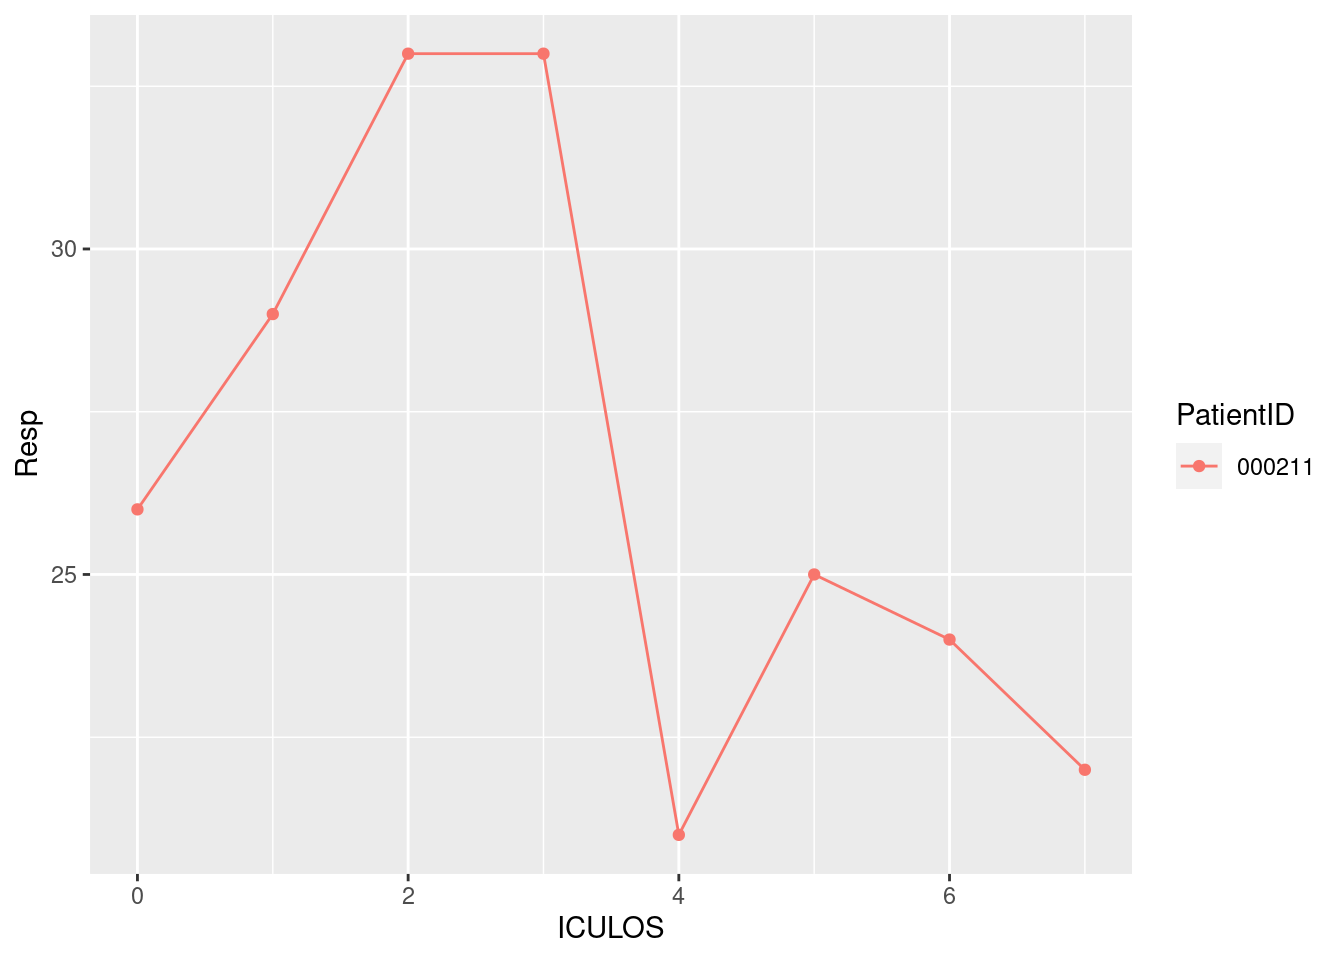
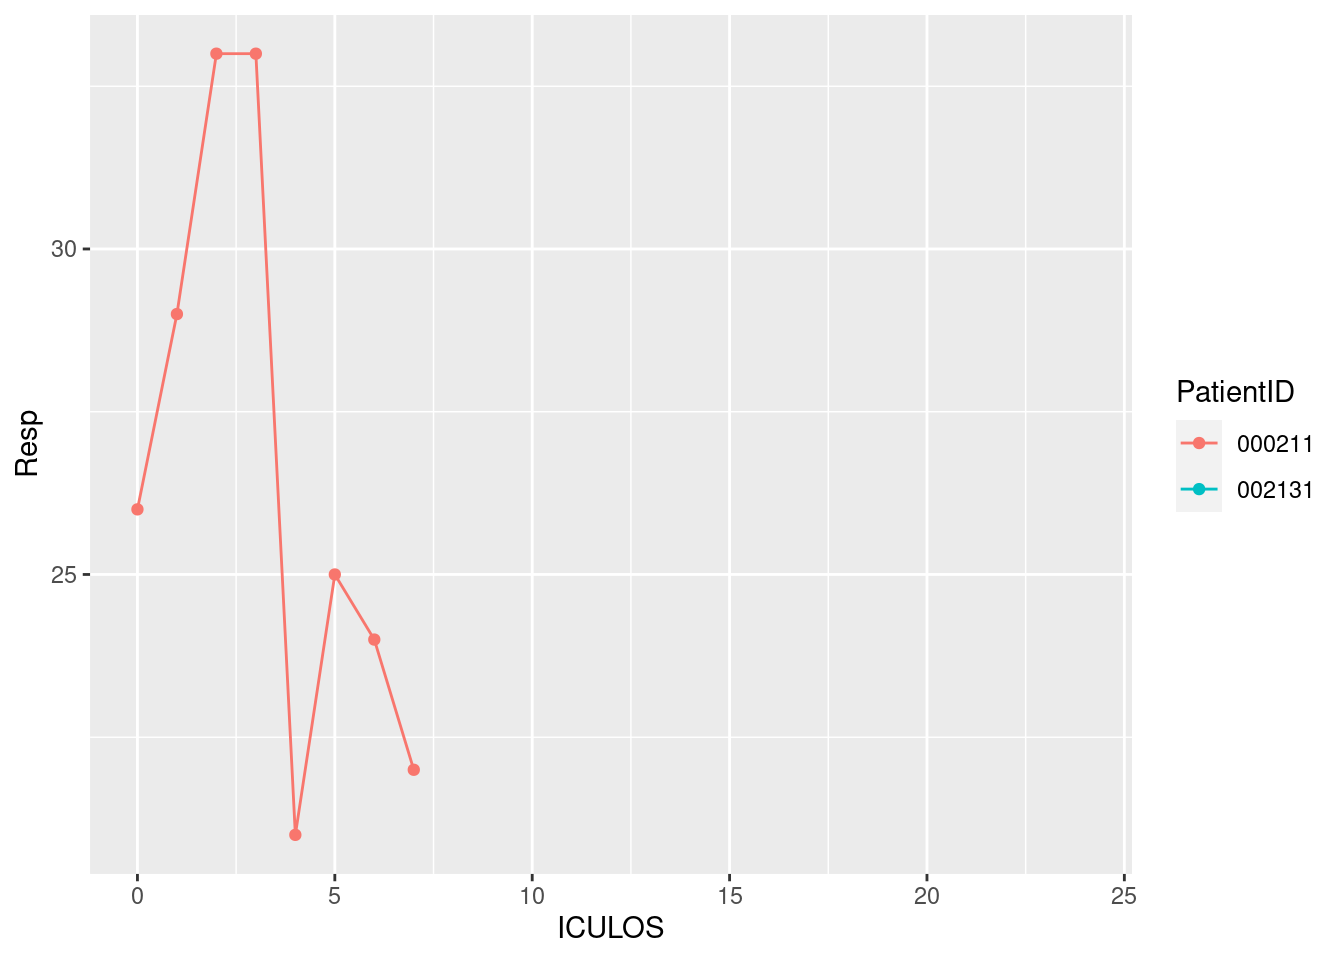
Updated report

diff --git a/a7qmd.html b/a7qmd.html
@@ -80,7 +80,7 @@ ul.task-list li input[type="checkbox"] {
 <h2 class="anchored" data-anchor-id="current-date-and-time">Current date and time</h2>
 <div class="cell">
 <div class="cell-output cell-output-stdout">
-<pre><code>[1] "2023-04-10 17:14:17 UTC"</code></pre>
+<pre><code>[1] "2023-04-10 18:19:10 UTC"</code></pre>
 </div>
 </div>
 </section>
@@ -103,6 +103,12 @@ ul.task-list li input[type="checkbox"] {
 <td style="text-align: right;">88</td>
 <td style="text-align: right;">NA</td>
 <td style="text-align: right;">22</td>
+</tr>
+<tr class="even">
+<td style="text-align: left;">002131</td>
+<td style="text-align: right;">NA</td>
+<td style="text-align: right;">NA</td>
+<td style="text-align: right;">NA</td>
 </tr>
 </tbody>
 </table>
@@ -145,9 +151,9 @@ ul.task-list li input[type="checkbox"] {
 </tr>
 <tr class="even">
 <td style="text-align: left;">000330</td>
-<td style="text-align: right;">14</td>
+<td style="text-align: right;">-8</td>
 <td style="text-align: right;">NA</td>
-<td style="text-align: right;">3</td>
+<td style="text-align: right;">-4</td>
 </tr>
 <tr class="odd">
 <td style="text-align: left;">000332</td>
@@ -175,15 +181,15 @@ ul.task-list li input[type="checkbox"] {
 </tr>
 <tr class="odd">
 <td style="text-align: left;">000878</td>
-<td style="text-align: right;">-5</td>
-<td style="text-align: right;">0.05</td>
-<td style="text-align: right;">0</td>
+<td style="text-align: right;">-1</td>
+<td style="text-align: right;">0.00</td>
+<td style="text-align: right;">-2</td>
 </tr>
 <tr class="even">
 <td style="text-align: left;">000939</td>
-<td style="text-align: right;">-12</td>
+<td style="text-align: right;">25</td>
 <td style="text-align: right;">NA</td>
-<td style="text-align: right;">-3</td>
+<td style="text-align: right;">5</td>
 </tr>
 <tr class="odd">
 <td style="text-align: left;">001080</td>
@@ -205,9 +211,9 @@ ul.task-list li input[type="checkbox"] {
 </tr>
 <tr class="even">
 <td style="text-align: left;">001708</td>
-<td style="text-align: right;">9</td>
+<td style="text-align: right;">0</td>
 <td style="text-align: right;">-0.10</td>
-<td style="text-align: right;">2</td>
+<td style="text-align: right;">-4</td>
 </tr>
 <tr class="odd">
 <td style="text-align: left;">001728</td>
@@ -223,13 +229,13 @@ ul.task-list li input[type="checkbox"] {
 </tr>
 <tr class="odd">
 <td style="text-align: left;">002131</td>
-<td style="text-align: right;">-6</td>
 <td style="text-align: right;">NA</td>
-<td style="text-align: right;">6</td>
+<td style="text-align: right;">NA</td>
+<td style="text-align: right;">NA</td>
 </tr>
 <tr class="even">
 <td style="text-align: left;">002248</td>
-<td style="text-align: right;">-3</td>
+<td style="text-align: right;">1</td>
 <td style="text-align: right;">NA</td>
 <td style="text-align: right;">NA</td>
 </tr>
@@ -247,9 +253,9 @@ ul.task-list li input[type="checkbox"] {
 </tr>
 <tr class="odd">
 <td style="text-align: left;">002572</td>
-<td style="text-align: right;">0</td>
+<td style="text-align: right;">8</td>
 <td style="text-align: right;">NA</td>
-<td style="text-align: right;">-12</td>
+<td style="text-align: right;">0</td>
 </tr>
 <tr class="even">
 <td style="text-align: left;">002738</td>
@@ -259,15 +265,15 @@ ul.task-list li input[type="checkbox"] {
 </tr>
 <tr class="odd">
 <td style="text-align: left;">003083</td>
-<td style="text-align: right;">-3</td>
+<td style="text-align: right;">-2</td>
 <td style="text-align: right;">NA</td>
-<td style="text-align: right;">3</td>
+<td style="text-align: right;">-2</td>
 </tr>
 <tr class="even">
 <td style="text-align: left;">003684</td>
-<td style="text-align: right;">4</td>
+<td style="text-align: right;">6</td>
 <td style="text-align: right;">NA</td>
-<td style="text-align: right;">3</td>
+<td style="text-align: right;">4</td>
 </tr>
 <tr class="odd">
 <td style="text-align: left;">003690</td>
@@ -277,27 +283,27 @@ ul.task-list li input[type="checkbox"] {
 </tr>
 <tr class="even">
 <td style="text-align: left;">003718</td>
-<td style="text-align: right;">1</td>
+<td style="text-align: right;">-3</td>
 <td style="text-align: right;">NA</td>
-<td style="text-align: right;">-4</td>
+<td style="text-align: right;">6</td>
 </tr>
 <tr class="odd">
 <td style="text-align: left;">003740</td>
-<td style="text-align: right;">8</td>
+<td style="text-align: right;">-3</td>
 <td style="text-align: right;">NA</td>
-<td style="text-align: right;">NA</td>
+<td style="text-align: right;">-2</td>
 </tr>
 <tr class="even">
 <td style="text-align: left;">003777</td>
-<td style="text-align: right;">-4</td>
+<td style="text-align: right;">1</td>
 <td style="text-align: right;">NA</td>
 <td style="text-align: right;">0</td>
 </tr>
 <tr class="odd">
 <td style="text-align: left;">004131</td>
-<td style="text-align: right;">-5</td>
-<td style="text-align: right;">0.00</td>
-<td style="text-align: right;">4</td>
+<td style="text-align: right;">5</td>
+<td style="text-align: right;">NA</td>
+<td style="text-align: right;">0</td>
 </tr>
 <tr class="even">
 <td style="text-align: left;">004389</td>
@@ -337,9 +343,9 @@ ul.task-list li input[type="checkbox"] {
 </tr>
 <tr class="even">
 <td style="text-align: left;">005785</td>
-<td style="text-align: right;">-4</td>
+<td style="text-align: right;">-7</td>
 <td style="text-align: right;">NA</td>
-<td style="text-align: right;">2</td>
+<td style="text-align: right;">-2</td>
 </tr>
 <tr class="odd">
 <td style="text-align: left;">006938</td>
@@ -361,9 +367,9 @@ ul.task-list li input[type="checkbox"] {
 </tr>
 <tr class="even">
 <td style="text-align: left;">008070</td>
-<td style="text-align: right;">0</td>
+<td style="text-align: right;">-4</td>
 <td style="text-align: right;">NA</td>
-<td style="text-align: right;">-1</td>
+<td style="text-align: right;">0</td>
 </tr>
 <tr class="odd">
 <td style="text-align: left;">008496</td>
@@ -391,21 +397,21 @@ ul.task-list li input[type="checkbox"] {
 </tr>
 <tr class="odd">
 <td style="text-align: left;">008907</td>
-<td style="text-align: right;">10</td>
+<td style="text-align: right;">-2</td>
 <td style="text-align: right;">NA</td>
-<td style="text-align: right;">3</td>
+<td style="text-align: right;">0</td>
 </tr>
 <tr class="even">
 <td style="text-align: left;">008916</td>
-<td style="text-align: right;">-4</td>
 <td style="text-align: right;">NA</td>
-<td style="text-align: right;">-1</td>
+<td style="text-align: right;">NA</td>
+<td style="text-align: right;">NA</td>
 </tr>
 <tr class="odd">
 <td style="text-align: left;">009179</td>
-<td style="text-align: right;">14</td>
+<td style="text-align: right;">-3</td>
 <td style="text-align: right;">NA</td>
-<td style="text-align: right;">1</td>
+<td style="text-align: right;">3</td>
 </tr>
 <tr class="even">
 <td style="text-align: left;">009185</td>
@@ -415,7 +421,7 @@ ul.task-list li input[type="checkbox"] {
 </tr>
 <tr class="odd">
 <td style="text-align: left;">009245</td>
-<td style="text-align: right;">8</td>
+<td style="text-align: right;">3</td>
 <td style="text-align: right;">NA</td>
 <td style="text-align: right;">-1</td>
 </tr>
@@ -427,15 +433,15 @@ ul.task-list li input[type="checkbox"] {
 </tr>
 <tr class="odd">
 <td style="text-align: left;">009343</td>
-<td style="text-align: right;">5</td>
+<td style="text-align: right;">2</td>
 <td style="text-align: right;">NA</td>
-<td style="text-align: right;">0</td>
+<td style="text-align: right;">6</td>
 </tr>
 <tr class="even">
 <td style="text-align: left;">009453</td>
-<td style="text-align: right;">5</td>
+<td style="text-align: right;">2</td>
 <td style="text-align: right;">NA</td>
-<td style="text-align: right;">0</td>
+<td style="text-align: right;">-1</td>
 </tr>
 </tbody>
 </table>
